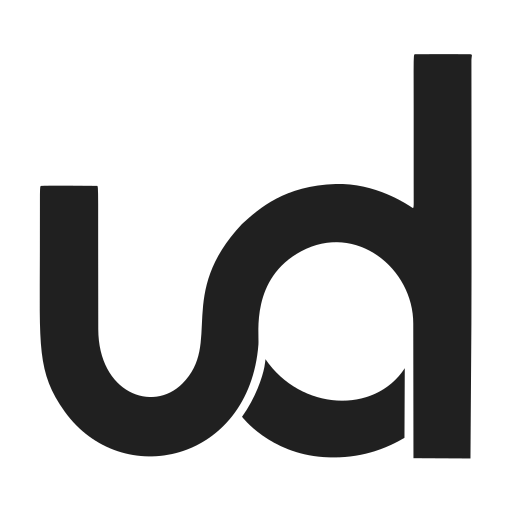
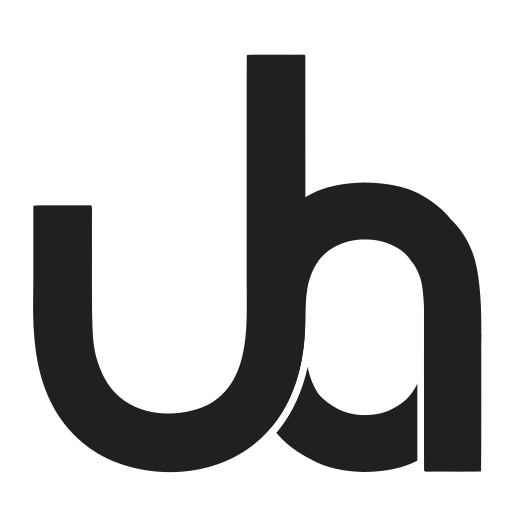
Refine UNS OpenHub symbol

Changed region(s): [[0.0625, 0.0938, 0.9688, 0.9375]]

diff --git a/brand/README.md b/brand/README.md
@@ -1,7 +1,8 @@
 # UNS OpenHub logo assets
 
-The original `uns-open-hub.svg` remains unchanged. The files in this directory
-remove editor-specific transforms and provide production-ready variants.
+The final symbol combines a continuous `u` and `h`, with the lower counter of
+the `h` also suggesting an open `o`. The SVG files in this directory are the
+optimized, production-safe sources.
 
 ## Files
 
@@ -20,8 +21,9 @@ remove editor-specific transforms and provide production-ready variants.
 - Light: `#F4F7F5`
 
 Keep at least half the width of the vertical stem as clear space around the
-mark. Use the standalone mark at 24 px or larger. At 16 px, use the square icon
-export and avoid placing it directly on a similarly dark background.
+mark. Use the standalone mark at 24 px or larger. At 16 px, use the square
+dark-background icon so the `uh` silhouette remains legible; the open `o`
+detail is intentionally secondary at that size.
 
 The wordmark text remains editable and uses Helvetica Neue with Arial as a
 fallback. Convert the text to curves in the final design application when a
